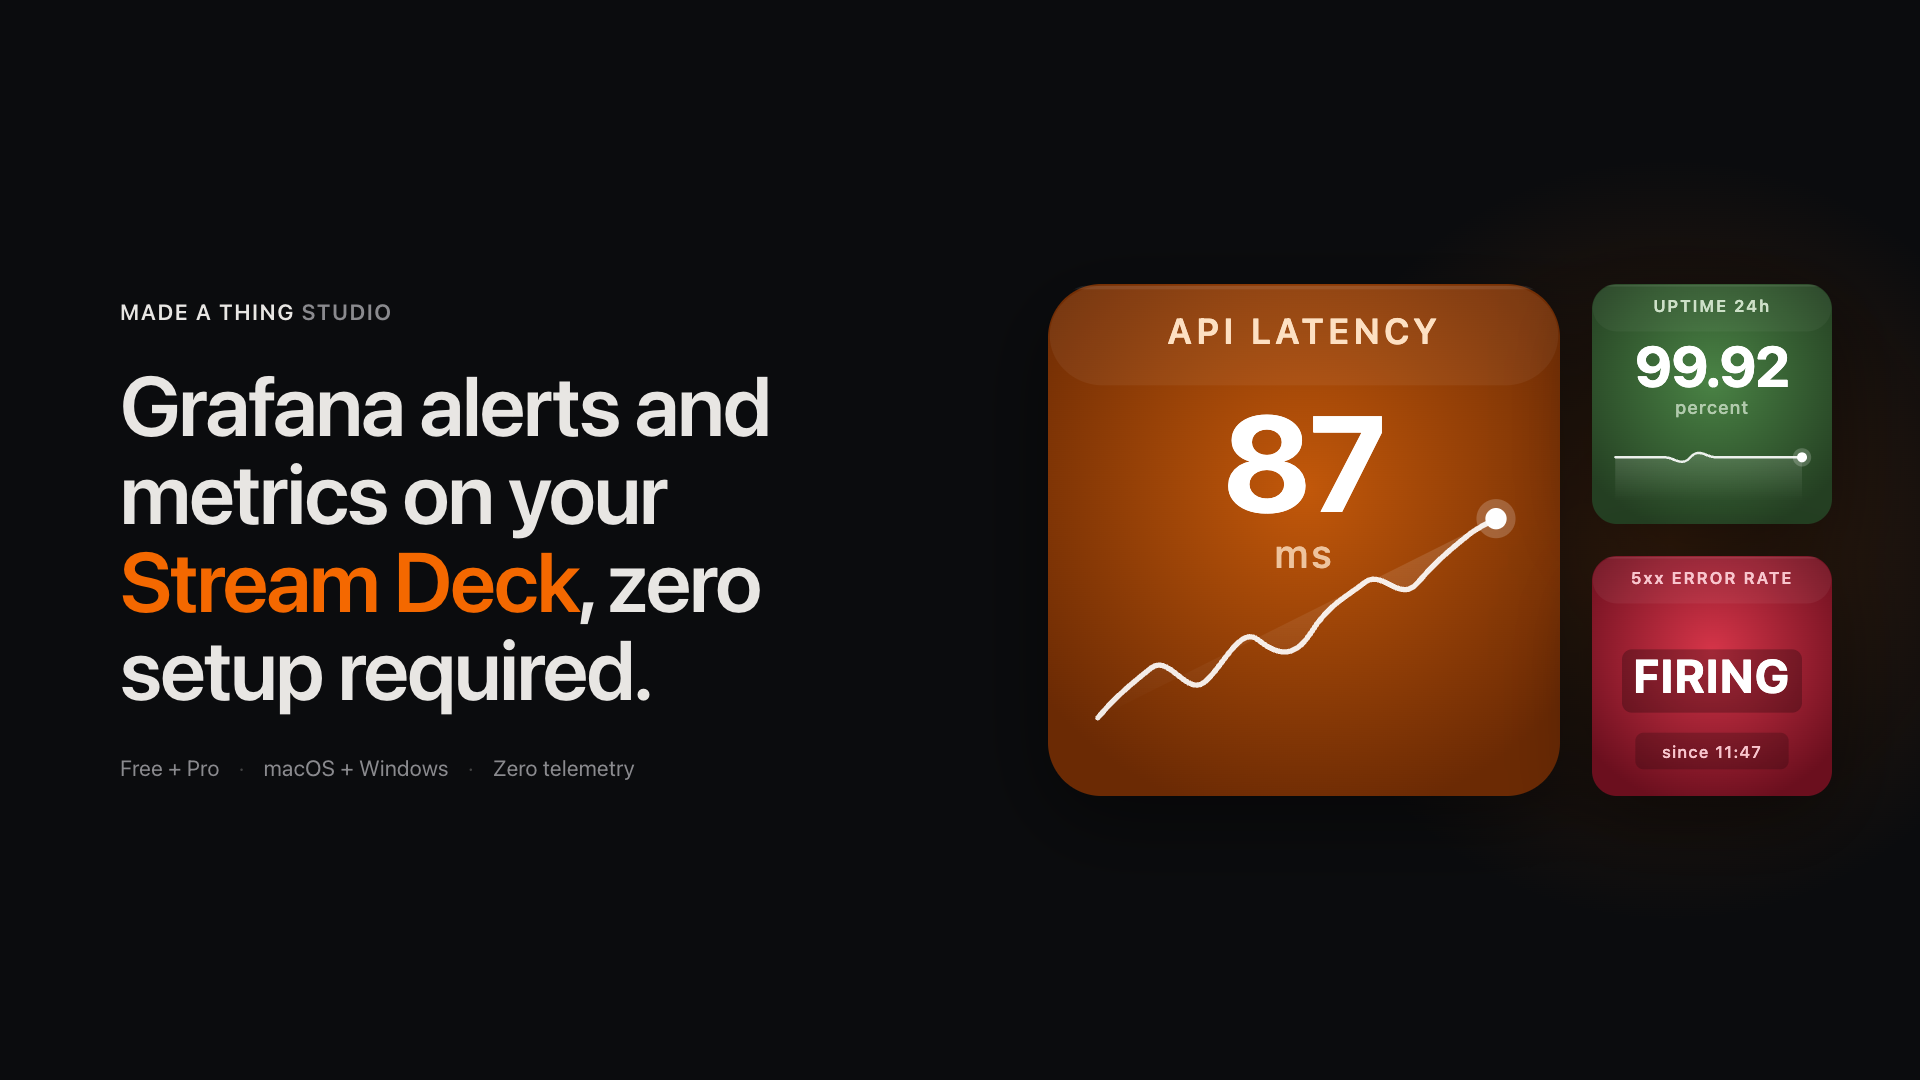
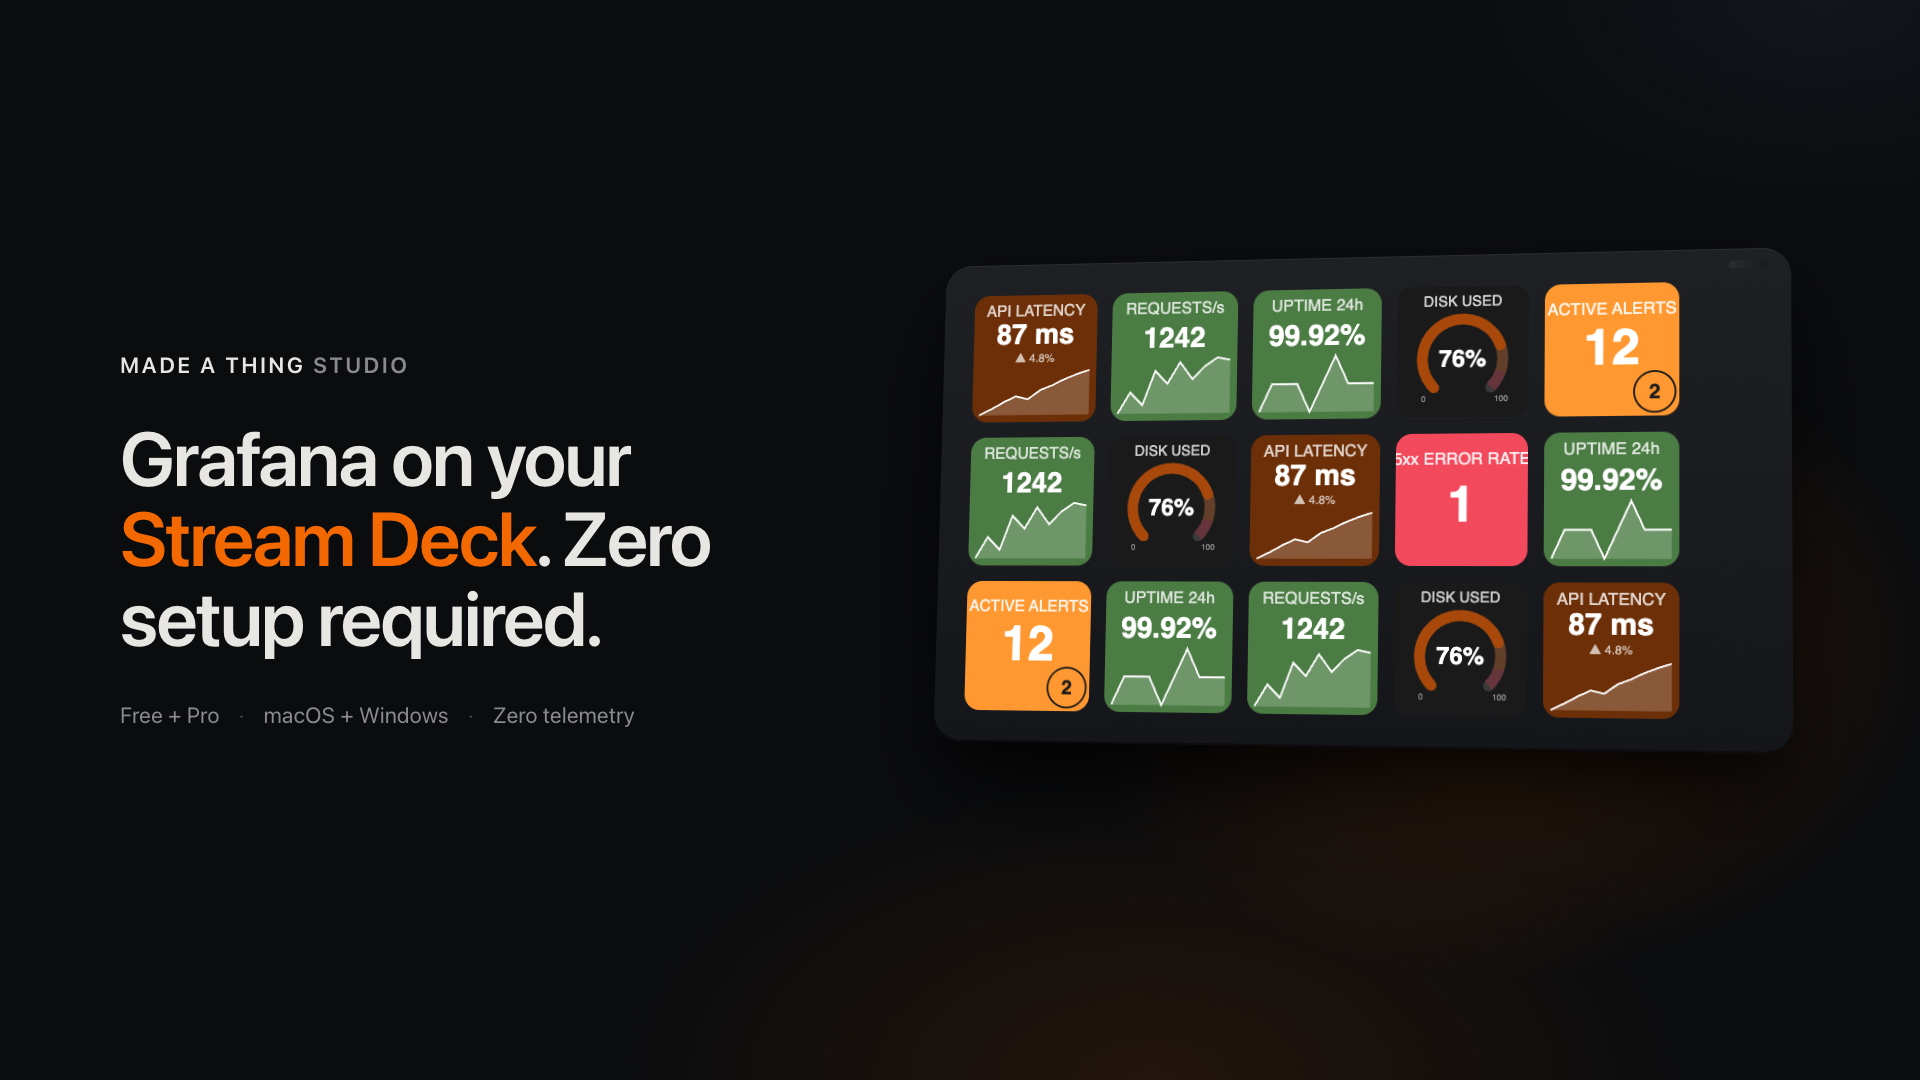
feat(assets): real plugin-render SVGs + device-illustration marquee
Replaces the stylized placeholder SVGs in public/assets/ with output
from the plugin's own renderer — byte-identical to what Stream Deck
draws on a key (run via grafana-streamdeck:scripts/render-screenshots.ts
using buildKeyImageSvg and renderAlertCountSvg with realistic Grafana
fixture data). Six tiles: API latency at warn, requests green, uptime
sparkline, disk gauge 76%, 12 active alerts with pending badge,
single 5xx firing.

marquee-source.html — new device-illustration composition. Tilted
Stream Deck MK.2 mockup (5x3 = 15 keys) with the renderer-output
SVGs as LCD content, soft Grafana-orange halo behind, brand wordmark
+ tagline on the left. Re-renderable at 1920x1080 via chrome — just
serve the file and screenshot a 1920x1080 viewport.

marquee.png updated to the device-illustration shot. CF Pages
auto-deploy fires; live at madeathing.studio.

diff --git a/marquee-source.html b/marquee-source.html
@@ -4,82 +4,99 @@
 <meta charset="utf-8" />
 <title>Marquee 1920×1080</title>
 <style>
-  /* Lock the page to exactly 1920×1080 with no scrollbars / no chrome */
   html, body { margin: 0; padding: 0; background: #0b0c0e; overflow: hidden; }
-  body { width: 1920px; height: 1080px; }
+  body { width: 1920px; height: 1080px; font-family: ui-sans-serif, system-ui, -apple-system, "Segoe UI", Roboto, sans-serif; -webkit-font-smoothing: antialiased; color: #e8e6e3; }
 
-  /* Soft radial halo on the right — same hero gradient as the site */
+  /* Atmospheric halos — a warm Grafana-orange behind the deck, plus a cooler tint
+     in the upper-right to add depth without screaming. */
   body::before {
-    content: "";
-    position: fixed;
-    top: 50%; right: -200px;
-    width: 900px; height: 900px;
-    transform: translateY(-50%);
-    background: radial-gradient(circle, rgba(244,104,0,0.18), transparent 60%);
-    pointer-events: none;
+    content: ""; position: fixed; inset: 0; pointer-events: none;
+    background:
+      radial-gradient(800px 600px at 78% 60%, rgba(244,104,0,0.20), transparent 55%),
+      radial-gradient(900px 500px at 60% 100%, rgba(244,104,0,0.10), transparent 60%),
+      radial-gradient(700px 400px at 95% 0%, rgba(80,100,150,0.10), transparent 55%);
   }
 
-  .root {
-    width: 100%; height: 100%;
-    display: grid; grid-template-columns: 1fr 1fr;
-    align-items: center;
-    color: #e8e6e3;
-    font-family: ui-sans-serif, system-ui, -apple-system, "Segoe UI", Roboto, sans-serif;
-    -webkit-font-smoothing: antialiased;
-  }
+  .scene { position: relative; width: 100%; height: 100%; display: grid;
+           grid-template-columns: 720px 1fr; align-items: center; gap: 80px; padding: 0 0 0 120px; box-sizing: border-box; }
 
-  /* ── Left: copy ─────────────────────────────────────────────────────────── */
-  .copy { padding: 0 120px; }
+  /* ── Copy ─────────────────────────────────────────────────────────────── */
   .brand {
-    font-size: 22px; font-weight: 600; letter-spacing: 0.08em; text-transform: uppercase;
-    color: #8a8a8e; margin-bottom: 36px;
+    font-size: 22px; font-weight: 600; letter-spacing: 0.12em; text-transform: uppercase;
+    color: #8a8a8e; margin-bottom: 40px;
   }
   .brand .accent { color: #e8e6e3; }
   h1 {
     margin: 0;
-    font-size: 84px; font-weight: 600; letter-spacing: -0.02em; line-height: 1.05;
-    max-width: 720px;
+    font-size: 76px; font-weight: 600; letter-spacing: -0.02em; line-height: 1.05;
   }
   h1 .pop { color: #f46800; }
   .byline {
-    margin-top: 42px;
+    margin-top: 44px;
     font-size: 22px; color: #8a8a8e; letter-spacing: 0.01em;
   }
   .byline .dot { color: #444; margin: 0 14px; }
 
-  /* ── Right: 3-up tile grid ──────────────────────────────────────────────── */
-  .tiles {
+  /* ── Device — Stream Deck MK.2 5×3 illustration ───────────────────────── */
+  /*  Bezel is a rounded rect with a soft inner shadow (LCD recess) and
+      an upward highlight on the top edge for material feel. The whole
+      assembly is tilted ~6° on Y for a perspective that reads as
+      "product photo" without being aggressive. */
+  .deck-wrap {
+    perspective: 1800px;
+    perspective-origin: 50% 60%;
+    transform: translateY(-40px);
+  }
+  .deck {
+    width: 800px; padding: 32px;
+    background: linear-gradient(180deg, #1f2024 0%, #15161a 100%);
+    border-radius: 28px;
+    box-shadow:
+      0 60px 100px -20px rgba(0,0,0,0.65),
+      0 30px 50px -10px rgba(0,0,0,0.5),
+      inset 0 1px 0 rgba(255,255,255,0.06),
+      inset 0 -2px 0 rgba(0,0,0,0.4);
+    transform: rotateY(-8deg) rotateX(4deg);
+    transform-style: preserve-3d;
+  }
+  .grid {
     display: grid;
-    grid-template-columns: repeat(3, 240px);
-    grid-template-rows: repeat(2, 240px);
-    gap: 32px;
-    justify-content: center;
-    align-content: center;
+    grid-template-columns: repeat(5, 132px);
+    grid-template-rows: repeat(3, 132px);
+    gap: 16px;
   }
-  .tiles img {
-    width: 240px; height: 240px; display: block;
-    border-radius: 24px;
-    filter: drop-shadow(0 24px 40px rgba(0,0,0,0.45));
+  .key {
+    width: 132px; height: 132px;
+    border-radius: 16px;
+    background: #0a0b0d;
+    box-shadow:
+      inset 0 0 0 1px rgba(255,255,255,0.04),
+      inset 0 2px 4px rgba(0,0,0,0.6),
+      0 1px 0 rgba(255,255,255,0.02);
+    overflow: hidden;
+    display: block;
   }
+  .key img { width: 100%; height: 100%; display: block; }
 
-  /* The hero key gets visual prominence: spans 2 cols + 2 rows in the grid */
-  .tiles .hero {
-    grid-column: 1 / span 2;
-    grid-row: 1 / span 2;
-    width: 512px; height: 512px;
-    border-radius: 48px;
+  /* Logo nub at the top-right corner of the deck (cosmetic device cue) */
+  .nub {
+    position: absolute; top: 12px; right: 24px;
+    width: 36px; height: 8px; border-radius: 4px;
+    background: linear-gradient(90deg, #2a2c30, #1a1b1e);
+    transform: translateZ(2px);
   }
 </style>
 </head>
 <body>
-<div class="root">
+<div class="scene">
 
+  <!-- ── Copy ────────────────────────────────────────────────────────── -->
   <div class="copy">
     <div class="brand"><span class="accent">Made A Thing</span> Studio</div>
     <h1>
-      Grafana alerts and metrics
-      on your <span class="pop">Stream Deck</span>,
-      zero setup required.
+      Grafana on your
+      <span class="pop">Stream Deck</span>.
+      Zero setup required.
     </h1>
     <div class="byline">
       Free + Pro <span class="dot">·</span>
@@ -88,10 +105,31 @@
     </div>
   </div>
 
-  <div class="tiles">
-    <img class="hero" src="/public/assets/hero-key.svg" alt="" />
-    <img src="/public/assets/tile-sparkline.svg" alt="" />
-    <img src="/public/assets/tile-fire.svg" alt="" />
+  <!-- ── Device ──────────────────────────────────────────────────────── -->
+  <div class="deck-wrap">
+    <div class="deck">
+      <div class="nub"></div>
+      <div class="grid">
+        <!-- Row 1: hero on left, then sparkline + gauge -->
+        <div class="key"><img src="/public/assets/hero-key.svg"      alt="" /></div>
+        <div class="key"><img src="/public/assets/tile-panel.svg"    alt="" /></div>
+        <div class="key"><img src="/public/assets/tile-sparkline.svg" alt="" /></div>
+        <div class="key"><img src="/public/assets/tile-gauge.svg"    alt="" /></div>
+        <div class="key"><img src="/public/assets/tile-alerts.svg"   alt="" /></div>
+        <!-- Row 2: variation -->
+        <div class="key"><img src="/public/assets/tile-panel.svg"    alt="" /></div>
+        <div class="key"><img src="/public/assets/tile-gauge.svg"    alt="" /></div>
+        <div class="key"><img src="/public/assets/hero-key.svg"      alt="" /></div>
+        <div class="key"><img src="/public/assets/tile-fire.svg"     alt="" /></div>
+        <div class="key"><img src="/public/assets/tile-sparkline.svg" alt="" /></div>
+        <!-- Row 3: bottom -->
+        <div class="key"><img src="/public/assets/tile-alerts.svg"   alt="" /></div>
+        <div class="key"><img src="/public/assets/tile-sparkline.svg" alt="" /></div>
+        <div class="key"><img src="/public/assets/tile-panel.svg"    alt="" /></div>
+        <div class="key"><img src="/public/assets/tile-gauge.svg"    alt="" /></div>
+        <div class="key"><img src="/public/assets/hero-key.svg"      alt="" /></div>
+      </div>
+    </div>
   </div>
 
 </div>
